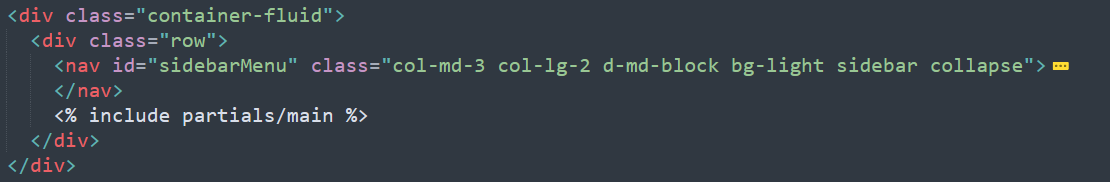
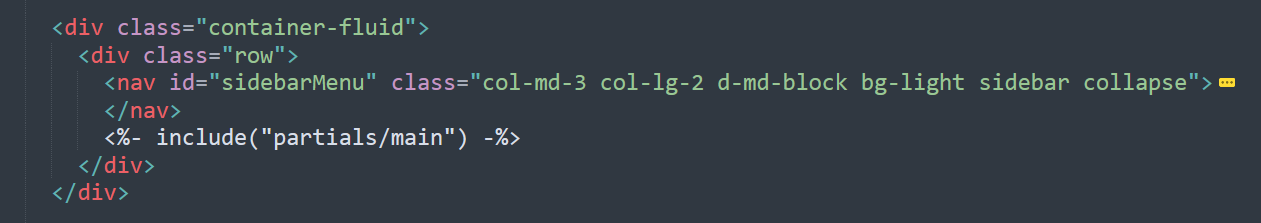
express_partials

diff --git a/tutoriales/express_partials.md b/tutoriales/express_partials.md
@@ -32,19 +32,25 @@ Partial: `<main>`
 Para el sitio de ejemplo será necesario separar las secciones que pueden reutilizarse otras vistas (layout) y las secciones que son únicas por vista.
 
 * Del archivo **views/index.ejs**
-  + Corta la etiqueta `<main>` junto con todo su contenido.
+  + Extraiga la etiqueta `<main>` junto con todo su contenido.
 * Dentro de la carpeta **views**
-  + Crea la carpeta **`partials`** . 
-  + Crea el archivo **`views/partials/main.ejs`**.
-  + Pega las etiquetas copiadas dentro del archivo **`views/partials/main.ejs`**.
+  + Cree la carpeta **`partials`** . 
+  + Cree el archivo **`views/partials/main.ejs`**.
+  + Pegue las etiquetas copiadas dentro del archivo **`views/partials/main.ejs`**.
 * En el archivo **views/index.ejs**
-  + Coloca **`<% include partials/main %>`**, en el lugar donde se encontraba la etiqueta `<main>`.
+  + Coloque **`<%- include("partials/main") -%>`**, en el lugar donde se encontraba la etiqueta `<main>`.
+
+<p align="center">
+  <img src="imagenes/partial_main.png">
+</p>
+
 * Compruebe el funcionamiento del servidor, con: **npm run devstart**
 * Acceda al URL `http://localhost:3000/` 
 
-<p align="center" style="border: 0.5pt solid black;">
-  <img src="imagenes/partial_main.png">
+<p align="center">
+  <img src="imagenes/express_bootstrap.png">
 </p>
+
 
 Partial: `<header>` y `<nav>`
 =============================
